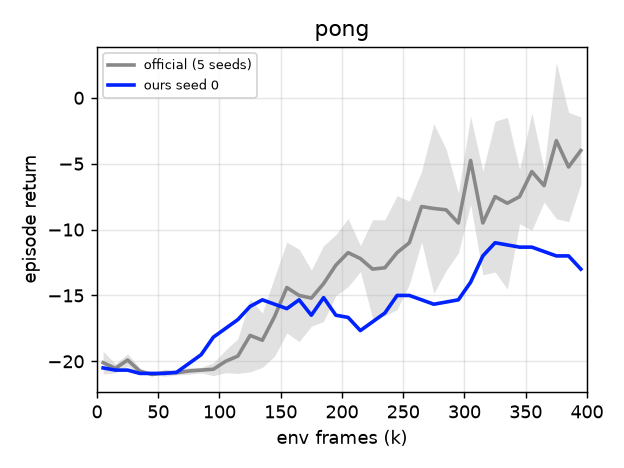
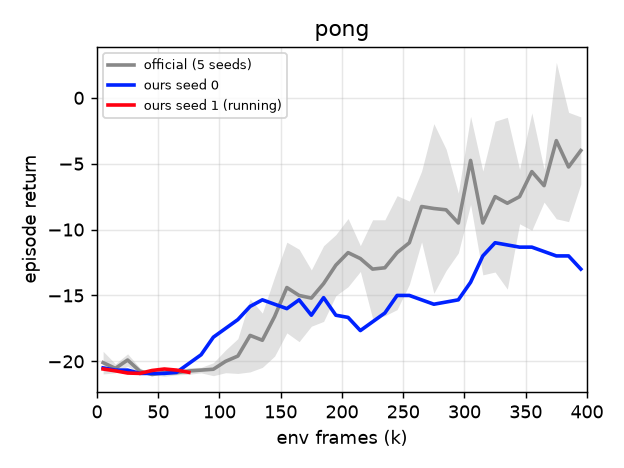
Ms Pacman seed 0 finished

diff --git a/docs/index.md b/docs/index.md
@@ -5,7 +5,7 @@ title: DreamerV3 Reproduction (Week 1)
 
 # DreamerV3 Reproduction — Week 1 (Reproduce)
 
-_Last updated: 2026-11-23 12:38 KST · runs: 6 (finished 5, reproduced 0/6 games)_
+_Last updated: 2026-11-23 13:06 KST · runs: 7 (finished 6, reproduced 0/6 games)_
 
 **Paper:** Hafner et al., *Mastering Diverse Domains through World Models* (DreamerV3), [arXiv 2301.04104](https://arxiv.org/abs/2301.04104), Nature 2025.
 **Code:** [danijar/dreamerv3](https://github.com/danijar/dreamerv3) at commit `e01491f` (Oct 2026), unmodified.
@@ -74,7 +74,7 @@ seed range `[min, max]` widened by one std.
 | hero | 1/3 | 13372.8 ± 0.0 | 13354 | 13344.3 (13190.7–13465.0) | 41.4% / 41.4% | 90% | **reproduced (partial 1/3)** |
 | krull | 1/3 | 6143.3 ± 0.0 | 8171 | 7683.5 (7365.0–8154.3) | 425.6% / 615.4% | 70% | **below official range (partial 1/3)** |
 | kung_fu_master | 1/3 | 23492.0 ± 0.0 | 25900 | 23301.7 (18766.7–29533.3) | 103.4% / 114.1% | 88% | **reproduced (partial 1/3)** |
-| ms_pacman | 0/3 | – | 1521 | 1525.8 (1206.7–1807.5) | – / 18.3% | – | **running** |
+| ms_pacman | 1/3 | 2394.3 ± 0.0 | 1521 | 1525.8 (1206.7–1807.5) | 31.4% / 18.3% | 40% | **above official range (partial 1/3)** |
 | pong | 1/3 | -12.0 ± 0.0 | -4 | -4.2 (-9.2–-1.3) | 25.0% / 47.2% | 74% | **below official range (partial 1/3)** |
 
 #### Per seed
@@ -85,8 +85,9 @@ seed range `[min, max]` widened by one std.
 | hero | 0 | 100% | 13372.8 | 13344.3 ± 96.5 (13190.7–13465.0) | 90% | **reproduced** |
 | krull | 0 | 100% | 6143.3 | 7683.5 ± 356.4 (7365.0–8154.3) | 70% | **below official range** |
 | kung_fu_master | 0 | 100% | 23492.0 | 23301.7 ± 4398.5 (18766.7–29533.3) | 88% | **reproduced** |
-| ms_pacman | 0 | 87% | – | 1525.8 ± 240.7 (1206.7–1807.5) | 40% | **running** |
+| ms_pacman | 0 | 100% | 2394.3 | 1525.8 ± 240.7 (1206.7–1807.5) | 40% | **above official range** |
 | pong | 0 | 100% | -12.0 | -4.2 ± 2.7 (-9.2–-1.3) | 74% | **below official range** |
+| pong | 1 | 18% | – | -4.2 ± 2.7 (-9.2–-1.3) | 88% | **running** |
 
 
 ![atari100k](assets/atari100k_overview.png)

diff --git a/docs/results.md b/docs/results.md
@@ -6,7 +6,7 @@
 | hero | 1/3 | 13372.8 ± 0.0 | 13354 | 13344.3 (13190.7–13465.0) | 41.4% / 41.4% | 90% | **reproduced (partial 1/3)** |
 | krull | 1/3 | 6143.3 ± 0.0 | 8171 | 7683.5 (7365.0–8154.3) | 425.6% / 615.4% | 70% | **below official range (partial 1/3)** |
 | kung_fu_master | 1/3 | 23492.0 ± 0.0 | 25900 | 23301.7 (18766.7–29533.3) | 103.4% / 114.1% | 88% | **reproduced (partial 1/3)** |
-| ms_pacman | 0/3 | – | 1521 | 1525.8 (1206.7–1807.5) | – / 18.3% | – | **running** |
+| ms_pacman | 1/3 | 2394.3 ± 0.0 | 1521 | 1525.8 (1206.7–1807.5) | 31.4% / 18.3% | 40% | **above official range (partial 1/3)** |
 | pong | 1/3 | -12.0 ± 0.0 | -4 | -4.2 (-9.2–-1.3) | 25.0% / 47.2% | 74% | **below official range (partial 1/3)** |
 
 #### Per seed
@@ -17,5 +17,6 @@
 | hero | 0 | 100% | 13372.8 | 13344.3 ± 96.5 (13190.7–13465.0) | 90% | **reproduced** |
 | krull | 0 | 100% | 6143.3 | 7683.5 ± 356.4 (7365.0–8154.3) | 70% | **below official range** |
 | kung_fu_master | 0 | 100% | 23492.0 | 23301.7 ± 4398.5 (18766.7–29533.3) | 88% | **reproduced** |
-| ms_pacman | 0 | 87% | – | 1525.8 ± 240.7 (1206.7–1807.5) | 40% | **running** |
+| ms_pacman | 0 | 100% | 2394.3 | 1525.8 ± 240.7 (1206.7–1807.5) | 40% | **above official range** |
 | pong | 0 | 100% | -12.0 | -4.2 ± 2.7 (-9.2–-1.3) | 74% | **below official range** |
+| pong | 1 | 18% | – | -4.2 ± 2.7 (-9.2–-1.3) | 88% | **running** |
